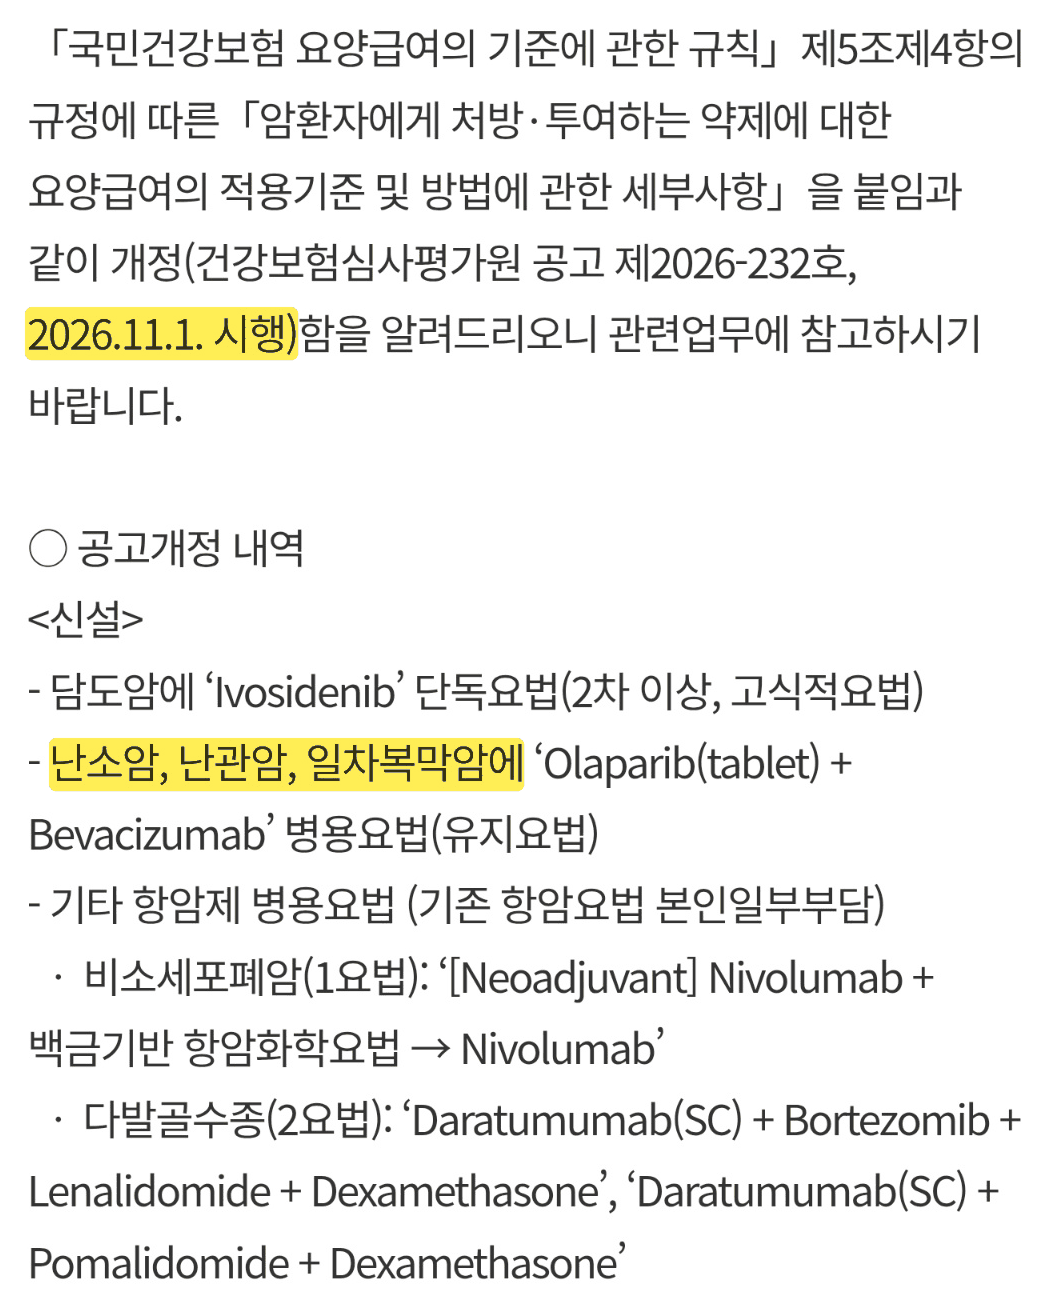
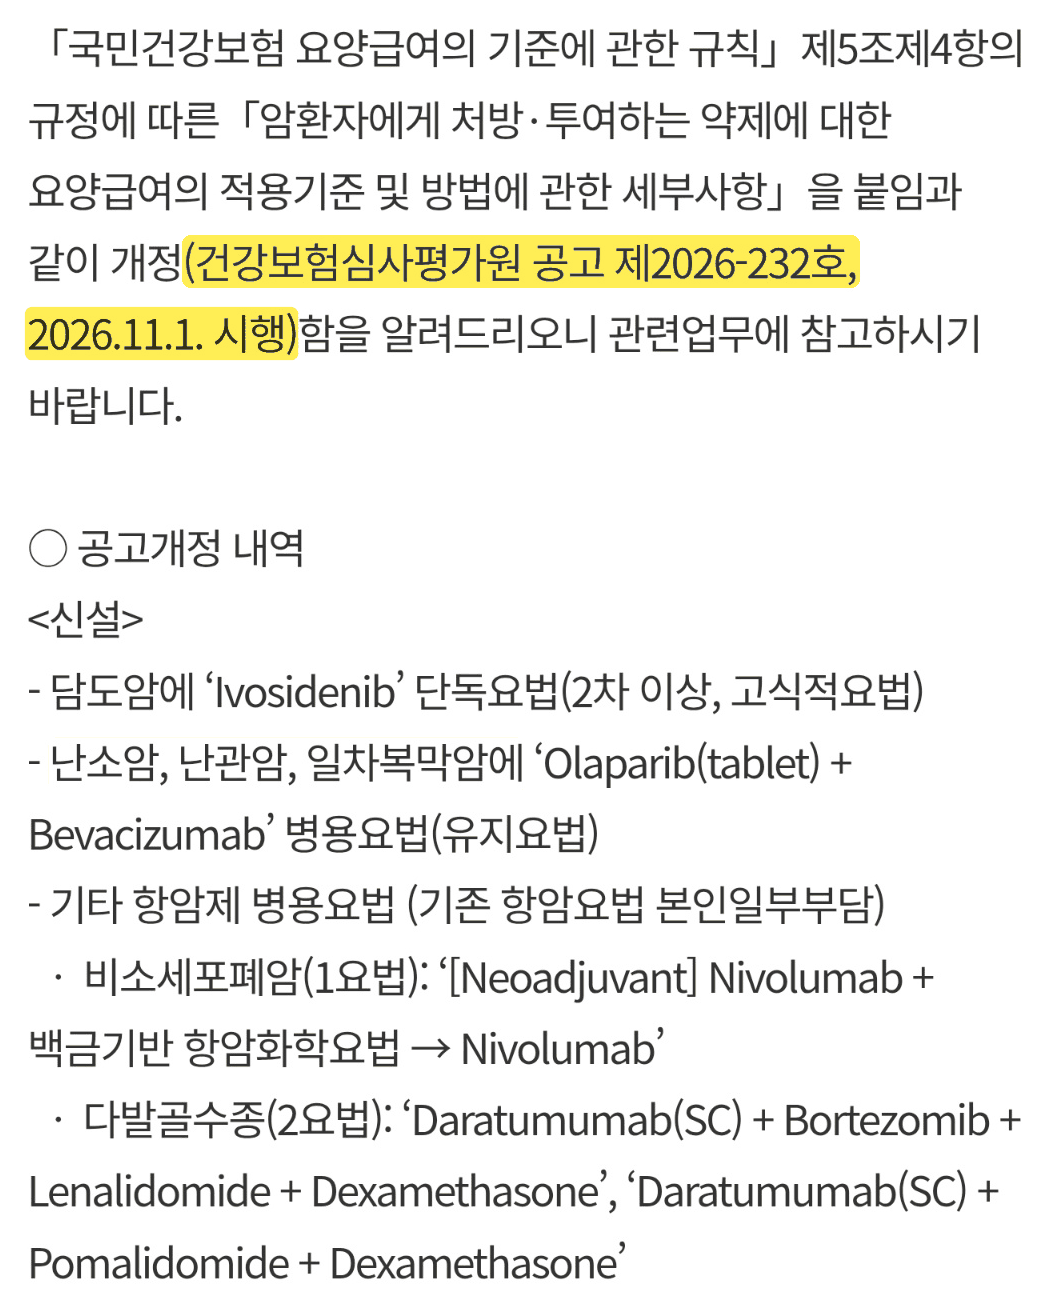
Notice page 1: highlight the whole notice number and date, drop the other highlight (version 36)
Claude-Session: https://claude.ai/code/session_01PMZqhSwfYYagpk8wbzSsGR

Changed region(s): [[0.1525, 0.153, 0.8236, 0.2448], [0.0305, 0.5509, 0.5186, 0.6121]]

diff --git a/sw.js b/sw.js
@@ -1,6 +1,6 @@
 /* PAOLA-1 touch screen: keeps the page, photos, icons and fonts on the device so it opens without a connection,
    and shows a new version as soon as the device is online. */
-const CACHE = 'paola1v2-1d80b50c';
+const CACHE = 'paola1v2-ac562df0';
 const CORE = ['./', 'index.html', 'manifest.webmanifest', 'icon-180.png', 'icon-192.png', 'icon-512.png', 'icon-maskable-512.png', 'p1.jpg', 'p2.jpg', 'p3.jpg', 'p4.jpg', 'doc1.png', 'doc2.jpg', 'pretendard-subset.woff2'];
 const FONT_HOSTS = ['fonts.googleapis.com', 'fonts.gstatic.com'];
 const PAGE_WAIT = 2500;   // ms to wait for the newest page before opening the saved one

diff --git a/index.html b/index.html
@@ -396,7 +396,7 @@ button,select{font:inherit;color:inherit}
       </div>
     </section>
     <p>iPad로 열면 화면 전체로 보여요. 시연 전에 이 패널은 닫아두세요.</p>
-    <p class="ver">앱 버전 35 · 빌드 1d80b50c</p>
+    <p class="ver">앱 버전 36 · 빌드 ac562df0</p>
   </aside>
 </main>
 <script>

diff --git a/README.md b/README.md
@@ -1,7 +1,7 @@
 # PAOLA-1 터치 화면 (iPad 설치형 웹앱)
 
 - 주소: https://kdqp304-arch.github.io/paola1-kiosk/
-- 현재 버전: 35 (빌드 1d80b50c) · 2026-10-29
+- 현재 버전: 36 (빌드 ac562df0) · 2026-10-29
 - iPad 사파리에서 주소를 열고 공유 → "홈 화면에 추가"를 누르면 아이콘이 생기고, 앱처럼 전체 화면으로 열려요.
 - 처음 한 번 인터넷이 켜진 상태에서 열어두면, 그다음부터는 인터넷 없이도 열려요.
 - 사용법: 화면을 꾹 누르면 01 → 02 → 03 순서로 불이 켜져요(0.4초 간격). 03 급여에 불이 들어오면(0.8초) 손을 떼도 마지막 막대가 저절로 차고 D-카운트(1초) 후 11.1 급여 화면이 나와요. 불꽃 3초 뒤 공고문 2쪽이 크게 나오고, 화면을 누르면 페이지가 넘어가요. 자동 초기화는 없어요: '처음으로'를 누르면 처음 화면으로 돌아가요.
@@ -17,6 +17,9 @@
 - 그래도 그대로면: 홈 화면 아이콘을 길게 눌러 삭제한 뒤, 사파리에서 주소를 다시 열고 "홈 화면에 추가"를 누르세요.
 
 ## 변경 내역
+
+### 2026-10-29 · 버전 36
+- 공고문 1쪽: '(건강보험심사평가원 공고 제2026-232호, 2026.11.1. 시행)' 전체를 노란 형광펜으로, '난소암, 난관암, 일차복막암에' 형광펜은 없앰
 
 ### 2026-10-29 · 버전 35
 - 공고문 2쪽을 새 이미지로 교체(난소암/난관암/일차복막암 유지요법 부분만 크게). 가로 화면에선 '처음으로' 버튼·안내와 겹치지 않게 위아래 여백을 둠
